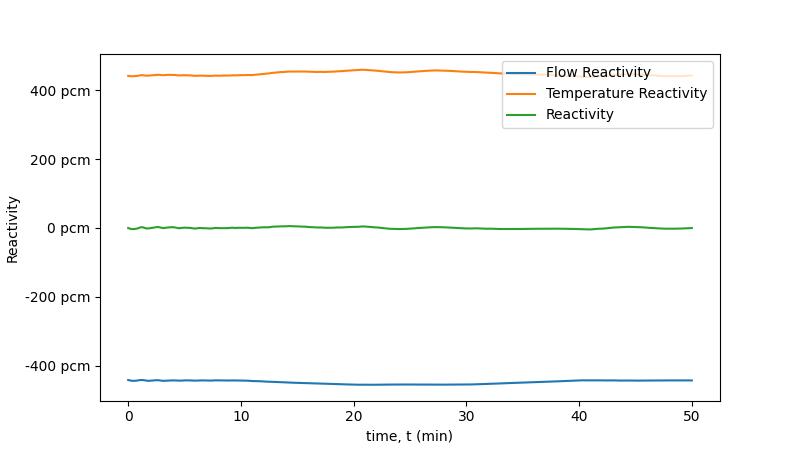
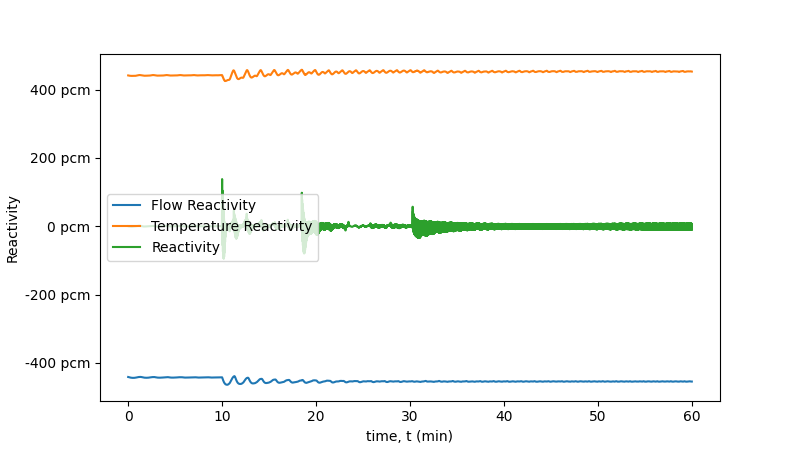
Prefilter in

diff --git a/simulation.py b/simulation.py
@@ -1,6 +1,6 @@
 import os; os.system('cls')
 print('import libraries')
-import initial, params, loop, plots, functions, TempProfile, control
+import initial, params, loop, plots, functions, TempProfile, controller
 import numpy as np
 #from scipy.signal import argrelextrema
 from tqdm import tqdm as tqdm
@@ -39,7 +39,7 @@ Q0 is calculated above, Q1 is the power after the first power change, Q2 is the 
 Q1,Q2 = 10000,8000
 #Q1,Q2 = Q0,Q0
 
-t0,t01,t1,t12,t2 = 600,600,600,600,600
+t0,t01,t1,t12,t2 = 600,300,3000,300,3000
 times = (0,t0,t01,t1,t12,t2)
 tlen= t0+t01+t1+t12+t2
 
@@ -51,8 +51,12 @@ Q11 = Q1*np.ones(t1)
 Q12 = np.linspace(Q1,Q2,num=t12)
 Q22 = Q2*np.ones(t2+1)
 Qhex_t = np.concatenate((Q00,Q01,Q11,Q12,Q22))
-plots.t_vs_Q(t,Qhex_t,None)
+pf_tau = len(loop.xdowncomer)/functions.base_to_milli(v)
+print(pf_tau)
+Qcore_SP = list(controller.prefilter(Qhex_t,t,pf_tau))
+plots.t_vs_Q(t,Qhex_t,Qcore_SP)
 
+exit()
 #FEM
 '''
 With the problem defined, the 1D+time finite element model is set-up. Time arrays are initialized for the core power, flow velocity, and temperature profile, as well as reactivity. The flow reactivity is calculated, while the temperature reactivity is set to the inverse, on the assumption that the reactor is initially critical. The control drums will start at the bias point, so their reactivity is null. Then the period and reactivity rate of change are set to zero, again on the steady state critical assumption.
@@ -65,8 +69,8 @@ T_x_t = [T_x]
 Freac_t = [functions.FlowRxty(T_x)]
 Treac_t = [-Freac_t[0]]
 
-CDtheta_t = [control.drum(Qhex_t[0],Qcore_t[0])]
-Creac_t = [control.feedback(CDtheta_t[0])]
+CDtheta_t = [controller.drum(Qhex_t[0],Qcore_t[0])]
+Creac_t = [controller.feedback(CDtheta_t[0])]
 
 reac_t=[Freac_t[0]+Treac_t[0]+Creac_t[0]]
 reac_dot_t = [0]
@@ -85,8 +89,8 @@ for step in tqdm(t[1:]):
     Freac_t.append(functions.FlowRxty(T_x))
     Treac_t.append(Treac_t[-1] + functions.TempRxtyChange(T_x_t[-2],T_x_t[-1]))
 
-    CDtheta_t.append(control.drum(Qhex_t[step],Qcore_t[-1]))
-    Creac_t.append(control.feedback(CDtheta_t[-1]))
+    CDtheta_t.append(controller.drum(Qhex_t[step],Qcore_t[-1]))
+    Creac_t.append(controller.feedback(CDtheta_t[-1]))
 
     reac_t.append(Freac_t[-1]+Treac_t[-1]+Creac_t[-1])
     reac_dot_t.append(functions.RoC(reac_t[-2], reac_t[-1]))

diff --git a/TempProfile.py b/TempProfile.py
@@ -43,7 +43,7 @@ def hotleg(T_x):
 #_______________________________________________________________
 def advance(T_x,velo,Qcore,Qhex):
     '''
-    This function is the heart of the simulator. It rounds and converts the velocity to an integer mm/s. It generates power arrays where the core and heat exchanger have linear heat rates, with edge effects being considered to account for the fact that not some of the distance traversed is done in the riser or downcomer. The temperature profile is then converted to energy. It follows a uniform state uniform flow assumption where the change in energy is equal to the fluid internal energy entering minus the fluid internal energy entering, plus the heat into the control volume. It neglects gravemetric, kinetic, and PV differentials, as in liquids the temperature/heat capacity effects dominate. The entering fluid is obtained by "rolling" back the energy array by the velocity (times the timestep length), again considering edge effects. The new energy array is computed and converted to temperature, then returned to simulation.py
+    This function is the heart of the simulator. It rounds and converts the velocity to an integer mm/s. It generates power arrays where the core and heat exchanger have linear heat rates, with edge effects being considered to account for the fact that not some of the distance traversed is done in the riser or downcomer. The temperature profile is then converted to energy. It follows a uniform state uniform flow assumption where the change in energy is equal to the fluid internal energy entering minus the fluid internal energy entering, plus the heat into the control volume. It neglects gravimetric, kinetic, and PV differentials, as in liquids the temperature/heat capacity effects dominate. The entering fluid is obtained by "rolling" back the energy array by the velocity (times the timestep length), again considering edge effects. The new energy array is computed and converted to temperature, then returned to simulation.py
     '''
     velo=int(round(functions.base_to_milli(velo),0))
     

diff --git a/plots.py b/plots.py
@@ -7,7 +7,7 @@ import numpy as np
 import glob
 from PIL import Image
 import os
-import TempProfile, functions, loop, control
+import TempProfile, functions, loop, controller
 
 def x_vs_Tx(path,t,T_x,Tmin,Tmax):
     ymin=Tmin
@@ -60,8 +60,8 @@ def reac_phase(Flow,Temp,Times):
     plt.gca().yaxis.set_major_formatter(FormatStrFormatter('%.d pcm'))
     plt.gca().xaxis.set_major_formatter(FormatStrFormatter('%.d pcm'))
     Flow,Temp = np.array(Flow)*1e5,np.array(Temp)*1e5
-    max = np.max(np.array([np.max(Temp),-np.max(Flow)]))
-    min = np.min(np.array([np.min(Temp),-np.min(Flow)]))
+    max = np.max(np.array([np.max(Temp),-np.min(Flow)]))
+    min = np.min(np.array([np.min(Temp),-np.max(Flow)]))
     pad = 3
     plt.xlim(min-pad,max+pad)
     plt.ylim(-max-pad,-min+pad)
@@ -111,7 +111,7 @@ def t_vs_velo(t,v):
     plt.close()
 
 def t_vs_angle(t,theta):
-    offset = np.floor(control.bias)
+    offset = np.floor(controller.bias)
     theta -= offset
     fig,ax = plt.subplots(figsize=(8,4.5))
     ax.yaxis.set_major_formatter(FormatStrFormatter('%.3f°'))
@@ -141,4 +141,5 @@ def kill():
     dir= 'img'
     for f in os.listdir(dir):
         if os.path.isfile(os.path.join(dir,f)):
-            os.remove(os.path.join(dir,f))
+            pass
+            #os.remove(os.path.join(dir,f))

diff --git a/controller.py b/controller.py
@@ -1,0 +1,30 @@
+import numpy as np
+import control as ct
+
+#Prefilter
+def prefilter(Qhex,time,tau):
+    num = [1]
+    den = [tau,1]
+    pf = ct.TransferFunction(num,den)
+    response_in = Qhex-Qhex[0]
+    _,response_out = ct.forced_response(pf,T=time,U=response_in)
+    Qcore_SP = Qhex[0] + response_out
+    return Qcore_SP
+
+#Proportional Control Loop
+Control = 'On'
+#Control = 'Off'
+bias = 120.14
+gain = {'On':4e-4, 'Off':0}
+
+
+def drum(Qhex,Qcore):
+    error = Qhex-Qcore
+    angle = bias + gain[Control]*error
+    return angle
+
+def feedback(angle):
+    reac=0
+    if Control == 'On':
+        reac = -0.02768 - 0.0717*np.cos(1.5*np.deg2rad(angle)-1.1781)
+    return reac
